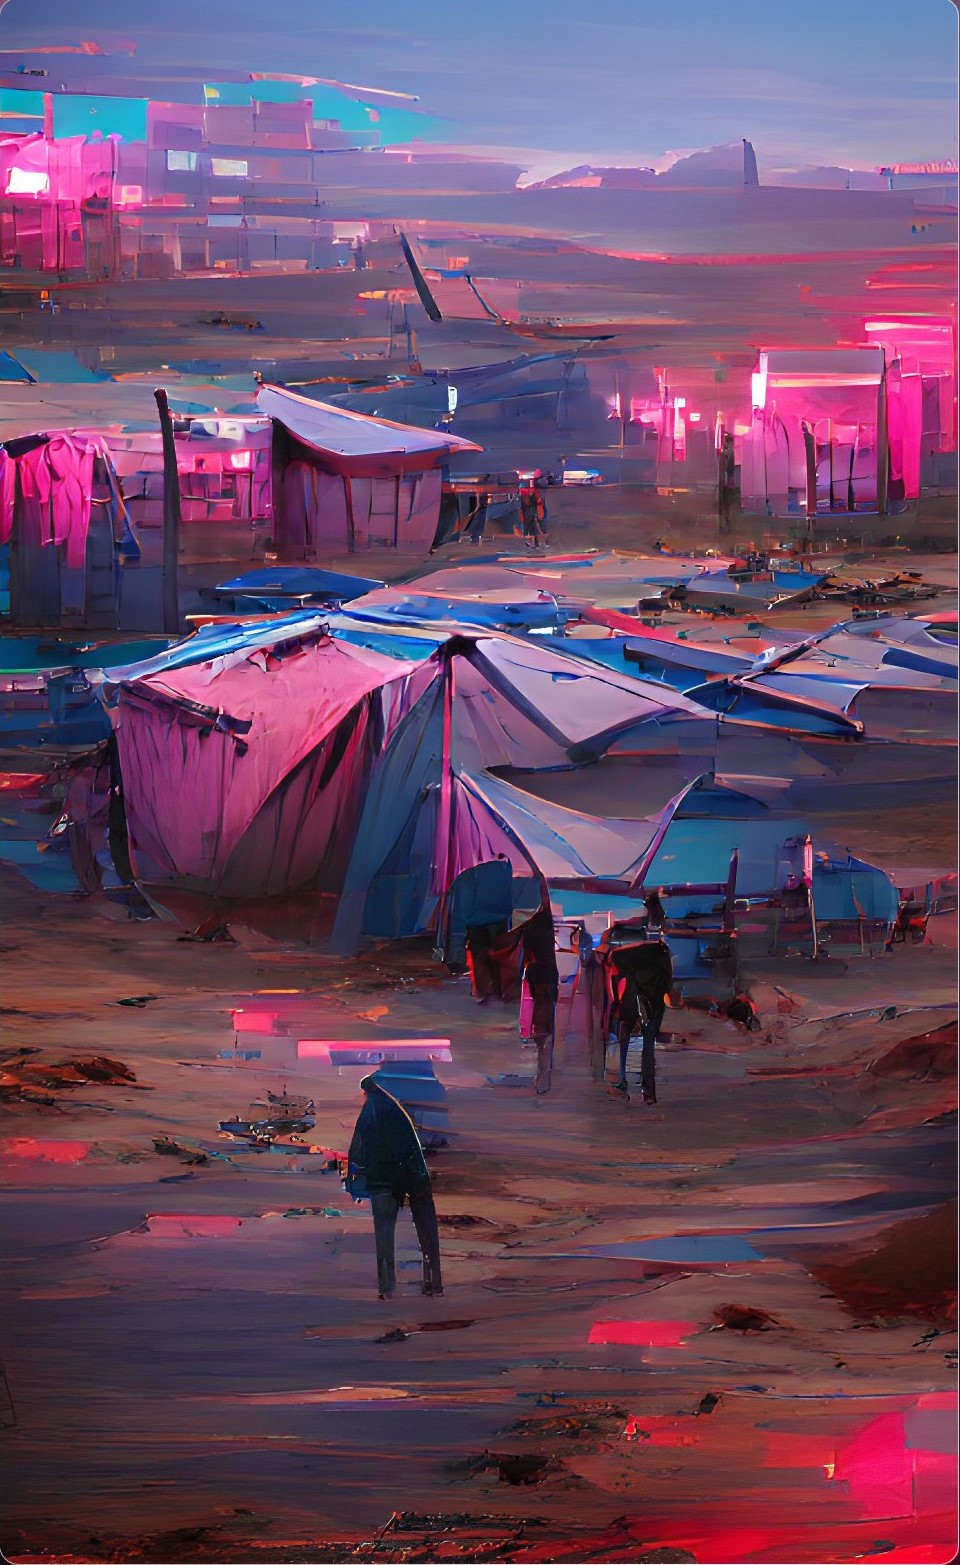
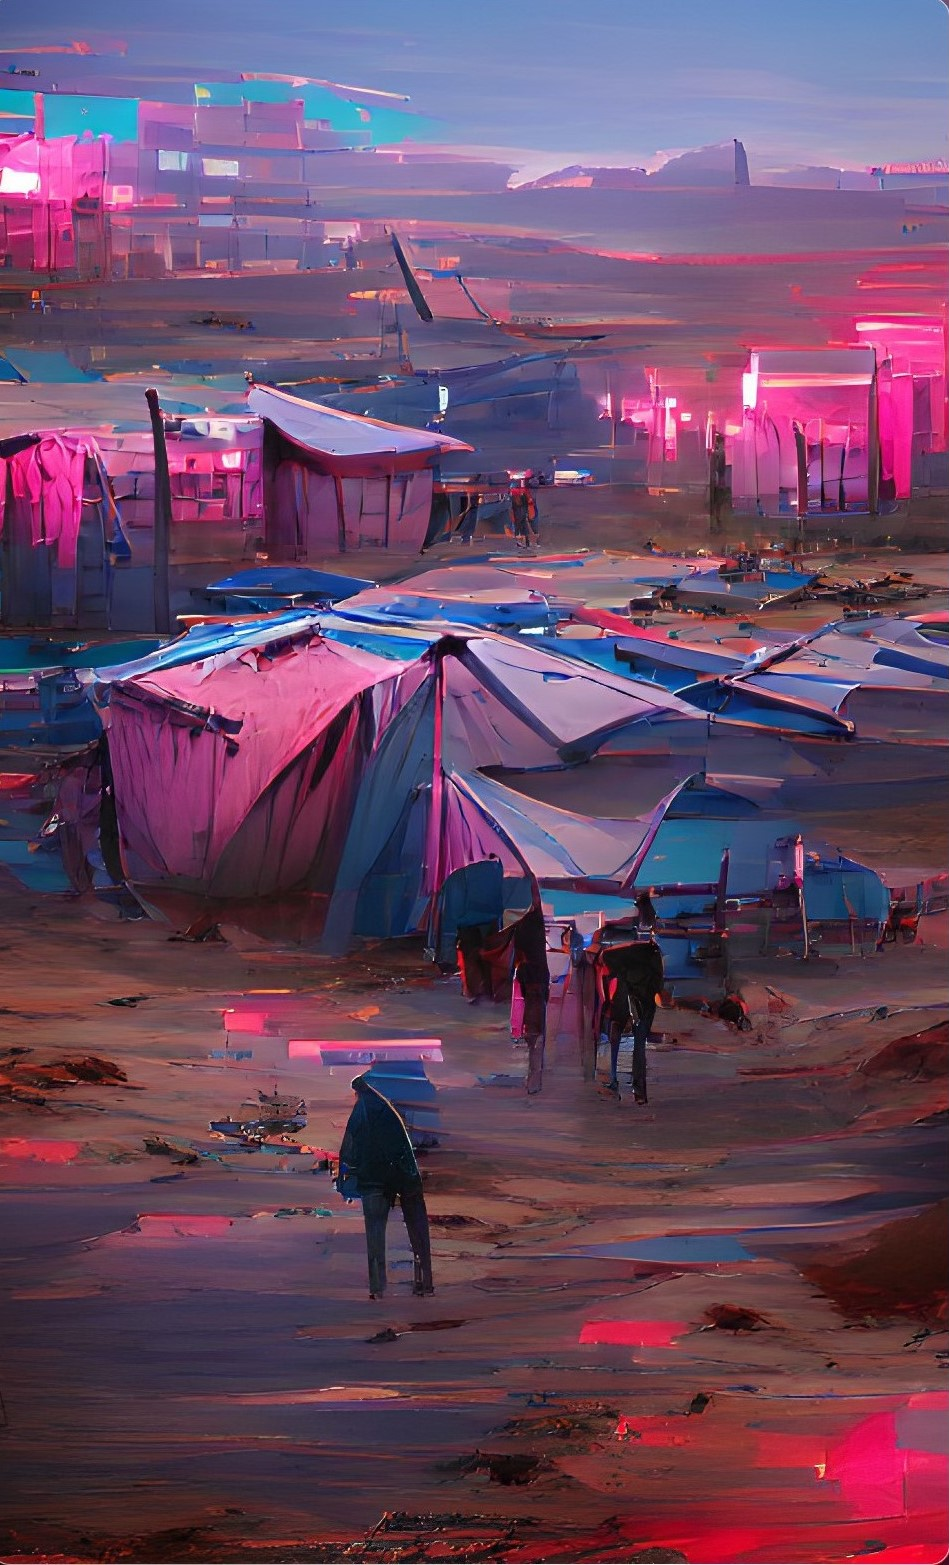
ugly working game

diff --git a/main.css b/main.css
@@ -88,7 +88,7 @@ body {
 }
 
 .m_dog {
-    background-image: url('images/m_dog.png'), url('images/rCamp.jpg');
+    background-image: url('images/m_dog.png'), url('images/rCamp2.jpg');
     background-attachment: fixed, fixed;
     background-position: center, center;
     background-repeat: no-repeat, no-repeat;
